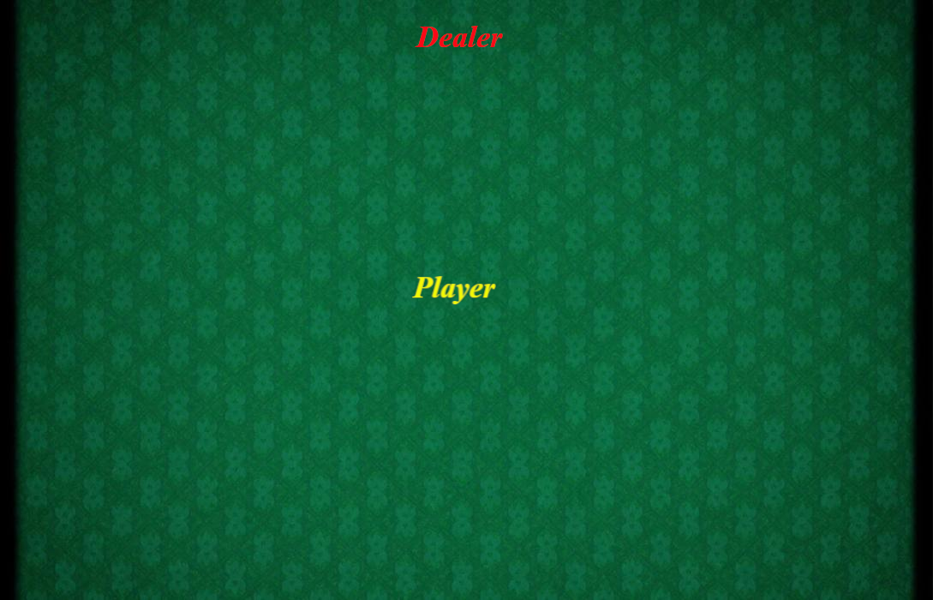
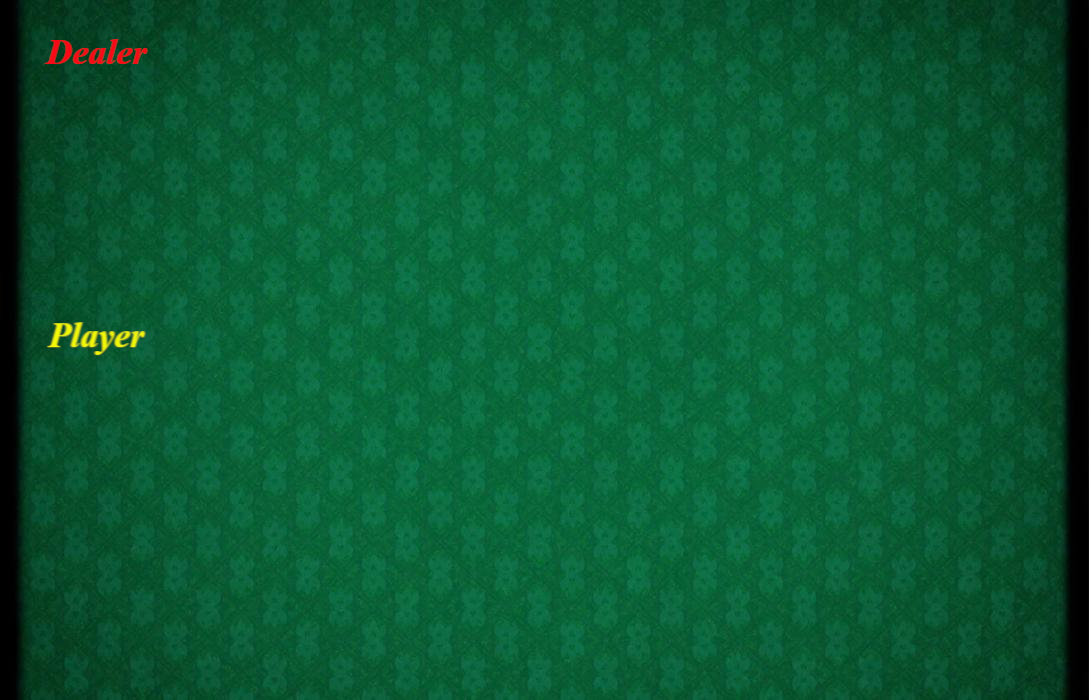
progress on positions

diff --git a/bj_functions.py b/bj_functions.py
@@ -118,55 +118,77 @@ def regular_play(player_choice, player, deck):
 def get_pics(cards_list):
     pics_paths = []
     for card in cards_list:
-        print('card')
+        print(card)
         for pic in os.scandir('Cards_pics'):
-            print('scandir')
-
-            # path = pic.path.replace('', '/')
             path_list = pic.path.split('\\')
             path = ''
-            print(path_list)
             o = 0
-            while o < len(path_list):
-                for each in path_list:
-                    path = path+each+'/'
-                    o+=1
+            for each in path_list:
+                path = path+each+'/'
+                o+=1
             path = path[:-1]
-            print(type(path))
+            print('PATH PATH PATH')
             print(path)
-            if card.name:
-                print('yesssss')
+            print(type(path))
+            print('PATH PATH PATH')
+            if card.name in path:
                 pics_paths.append(path)
 
-
-    print(pics_paths)
     return pics_paths
 
-def paste_pics(pics_paths, player):
-    # print(pics_paths)
+def paste_pics(pics_paths, player, sets=[]):
+    dealer = False
+    num_pic = True
+    sets_pics = False
+    if len(sets) != 0:
+        sets_pics = True
+    if player.name == 'Dealer':
+        dealer = True
+        num_pic = False
+
     back_im = Image.open('big_back.png')
     back_im_copy = back_im.copy()
     num = player.index
-    num_im = Image.open(f'Num pics/{num}.jpg')
-    num_im.thumbnail((80,80))
-    num_im.save
-    back_im_copy.paste(num_im, (500,250))
-    i = 1
-    print('=======================================================================================')
-    print(pics_paths)
-    for path in pics_paths:
-        print(path)
-        p = Image.open(path)
-        # p.show()
-        back_im_copy.paste(p, (i,100))
-        x,y = p.size
-        i += (x+1)
+    if num_pic:
+        num_im = Image.open(f'Num pics/{num}.jpg')
+        num_im.thumbnail((80,80))
+        num_im.save(f'Num pics/{num}.jpg')
+        back_im_copy.paste(num_im, (154,300))
+
+    if dealer:
+        i = 200
+        for path in pics_paths:
+            p = Image.open(path)
+            back_im_copy.paste(p, (i,100))
+            x,y = p.size
+            i += (x+1)
+
+
+    else:
+        if sets_pics:
+            i = 20
+            for path in pics_paths:
+                p = Image.open(path)
+
+                back_im_copy.paste(p, (i, 500))
+                x, y = p.size
+                i += (x + 1)
+        else:
+            i = 20
+            for path in pics_paths:
+                p = Image.open(path)
+                back_im_copy.paste(p, (i,475))
+                x,y = p.size
+                i += (x+1)
     back_im_copy.show()
 
 player = Player('John',2)
 d = Deck()
-l = d.deal(4)
+abcde = d.deal(1)
+print(abcde)
 # print(l)
-g = get_pics(l)
+g = get_pics(abcde)
+print(g)
 paste_pics(g, player)
+
 

diff --git a/main.py b/main.py
@@ -1,4 +1,4 @@
-from functions import num_of_players, starting_deal, place_bets, get_cards_val, has_ace, choose_ace_val, bust, \
+from bj_functions import num_of_players, starting_deal, place_bets, get_cards_val, has_ace, choose_ace_val, bust, \
     double_down, regular_play
 from classes import Player, Deck
 
@@ -132,7 +132,7 @@ while new_game:
                     player_choice = player.play()
 
                     while player_choice == 'D':
-                        if bets[player.index] * 2 > player.chips.value:
+                        if bets[player.index] * 2 > player.chips.number:
                             print(f'{player.name} has insufficient funds to double down')
                             player_choice = player.play()
                         else:

diff --git a/classes.py b/classes.py
@@ -1,9 +1,9 @@
 import random
 
 suits = ('hearts', 'diamonds', 'spades', 'clubs')
-ranks = ('Two', 'Three', 'Four', 'Five', 'Six', 'Seven', 'Eight', 'Nine', 'Ten', 'Jack', 'Queen', 'King', 'Ace')
-values = {'Two': 2, 'Three': 3, 'Four': 4, 'Five': 5, 'Six': 6, 'Seven': 7, 'Eight': 8,
-          'Nine': 9, 'Ten': 10, 'Jack': 10, 'Queen': 10, 'King': 10, 'Ace': 11}
+ranks = ('2', '3', '4', '5', '6', '7', '8', '9', '10', 'Jack', 'Queen', 'King', 'Ace')
+values = {'2': 2, '3': 3, '4': 4, '5': 5, '6': 6, '7': 7, '8': 8,
+          '9': 9, '10': 10, 'Jack': 10, 'Queen': 10, 'King': 10, 'Ace': 11}
 
 
 class Card:

diff --git a/dfghdgd.py b/dfghdgd.py
@@ -10,3 +10,9 @@ from PIL import Image
 #     back_im_copy.paste(num_im)
 #     back_im_copy.show()
 
+for pic in os.scandir('Cards_pics'):
+    im = Image.open(pic.path)
+    a = im.resize((200,200))
+    # a.show()
+    # im.show()
+    print(a.size)
